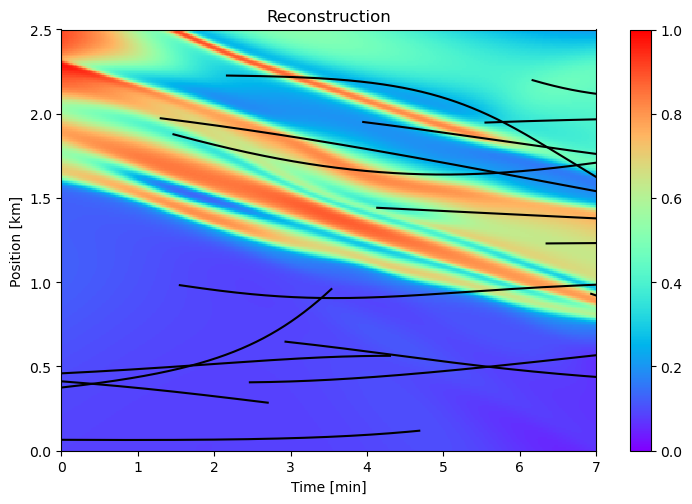
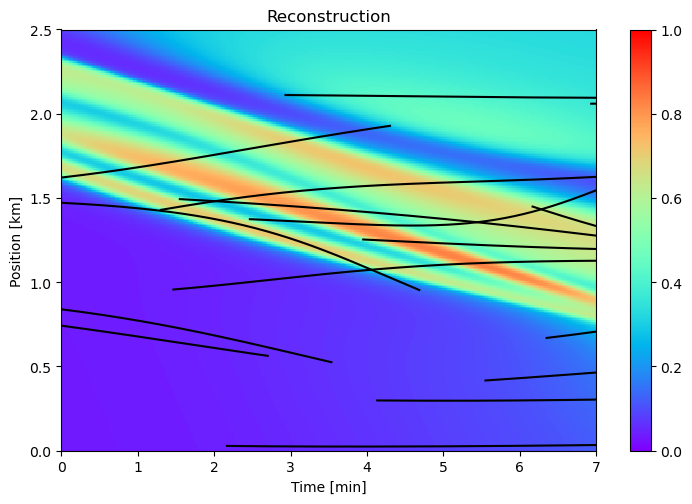
add work 6april

diff --git a/neural_network_pytorch.py b/neural_network_pytorch.py
@@ -105,19 +105,18 @@ class NeuralNetwork(nn.Module):
         self.N = len(self.x)  # Number of agents
         self.max_speed = max_speed
 
-        print_data_ranges(self.t, "t")
-        print_data_ranges(self.x, "x")
-        print_data_ranges(self.u, "u")
-        print_data_ranges(self.v, "v")
-        print_data_ranges(self.x_f, "x_f")
-        print_data_ranges(self.t_f, "t_f")
-        print_data_ranges(self.t_g, "t_g")
-        print_data_ranges(self.u_v, "u_v")
+        # print_data_ranges(self.t, "t")
+        # print_data_ranges(self.x, "x")
+        # print_data_ranges(self.u, "u")
+        # print_data_ranges(self.v, "v")
+        # print_data_ranges(self.x_f, "x_f")
+        # print_data_ranges(self.t_f, "t_f")
+        # print_data_ranges(self.t_g, "t_g")
+        # print_data_ranges(self.u_v, "u_v")
 
-
-        self.gamma_var = torch.tensor(1e-2, dtype=torch.float32, requires_grad=True) # Viscosity parameter
-        self.noise_rho_bar = [torch.tensor(torch.randn(1, 1) * 0.001, dtype=torch.float32, requires_grad=True) 
-                              for _ in range(self.N)] # Noise for the density
+        # learnable parameters
+        self.gamma_var = torch.nn.Parameter(torch.tensor(1e-2, dtype=torch.float32), requires_grad=True)  # Correct use of dtype # Viscosity parameter
+        self.noise_rho_bar = [torch.nn.Parameter(torch.randn(1, 1) * 0.001, requires_grad=True) for _ in range(self.N)] # Noise for the density
 
 
         # build density network
@@ -239,10 +238,15 @@ class NeuralNetwork(nn.Module):
         rho = np.linspace(-1, 1, 100)
         rho = torch.tensor(rho, dtype=torch.float32).unsqueeze(1)
         v_pred = self.predict_speed(rho)
+        F_pred = self.predict_F(rho)
         for (t, x, u, v) in zip(self.t, self.x, self.u, self.v):
             plt.scatter(u.detach().numpy(), v.detach().numpy(), c='blue', s=5)
         rho = np.linspace(-1,1,100)
         plt.plot(rho, v_pred, c='red')
+        plt.plot(rho, F_pred, c='green')
+        # plt.plot(rho, ((rho+1)/2)*v_pred, c='purple')
+        
+        plt.legend(['v', 'F', 'rho*v'])
 
         # density over position at different times
         plt.subplot(3, 3, 7)  # 1 row, 2 columns, subplot 1
@@ -288,7 +292,7 @@ class NeuralNetwork(nn.Module):
 
         # breakpoint()
         # Predictions
-        u_pred = [self.net_u(self.t[i], self.x[i]) - self.noise_rho_bar[i]*0 for i in range(len(self.t))] # list of tensors, since each tensor has a different shape
+        u_pred = [self.net_u(self.t[i], self.x[i]) - self.noise_rho_bar[i] for i in range(len(self.t))] # list of tensors, since each tensor has a different shape
         v_pred = [self.net_v(self.u[i]) for i in range(len(self.t))]
         # x_pred = [self.net_x_pv(t[i], i) for i in range(len(t))]  # data points or physics points?
         # x_pred0 = self.net_x_pv(t[0], 0)
@@ -325,11 +329,13 @@ class NeuralNetwork(nn.Module):
         MSEf = torch.mean(f_pred**2)  # Residual of PDE Predictions flux function
         # MSEg = torch.mean(g_pred**2)  # Residual of PDE Predictions g function
         MSEv = torch.mean(torch.relu(self.net_ddf(self.u_v))**2)  # Placeholder, adjust as needed
+        MSEgamma = self.gamma_var**2
 
         return {
             # "MSEf": MSEf,
             # "MSEg": MSEg,
-           "MSEv": MSEv
+            "MSEv": MSEv,
+            "MSEgamma": MSEgamma
         }
 
         
@@ -350,12 +356,24 @@ class NeuralNetwork(nn.Module):
 
         # losses tracking
         loss_history = {}
+        gamma_var_history = []
+        noise_rho_bar_history = []
+
+        # breakpoint()
 
         # Define the optimizer
+        # all_params = list(self.density_network.parameters()) + list(self.velocity_network.parameters())
         optimizer = optim.Adam(self.parameters(), lr=0.005)
+        optimizer = optim.Adam([
+            {'params': self.parameters()},  # Parameters of sub-modules
+            # {'params': [self.gamma_var]},  # Explicitly add gamma_var
+            {'params': self.noise_rho_bar}  # Explicitly add all tensors in noise_rho_bar
+        ], lr=0.005)
+        # optimizer = optim.Adam(list(self.parameters()) + [self.gamma_var] + [*self.noise_rho_bar], lr=0.005)
+        # optimizer = optim.LBFGS(self.parameters(), lr=0.005)
        
         # Train the model
-        self.N_epochs = 10000
+        self.N_epochs = 4000
         # self.plot_density_loss_on_trajectory()
         with tqdm(total=self.N_epochs, desc="Training Progress") as pbar:
             for epoch in range(self.N_epochs):
@@ -366,13 +384,13 @@ class NeuralNetwork(nn.Module):
                 loss = sum(losses_data.values()) + sum(losses_physics.values())
                 # loss = sum([self.sigmas[i]*losses[key] for i, key in enumerate(losses.keys())])
   
-
                 loss.backward()
                 optimizer.step()
 
+                # print(self.gamma_var, self.noise_rho_bar[0])
+
                 pbar.set_postfix({'loss': loss.item()})
                 pbar.update(1)
-
 
                 combined_losses = {**losses_data, **losses_physics}
                 for key, value in combined_losses.items():
@@ -380,15 +398,15 @@ class NeuralNetwork(nn.Module):
                         loss_history[key] = []
                     # Assuming the loss values are tensors, use .item() to get Python numbers
                     loss_history[key].append(value.item())
-
-
                 
-                if epoch % self.N_lambda == 0:
-                    pass
-                    # self.gamma_var = self.gamma_var - 0.1 * self.gamma_var.grad
-                    # self.noise_rho_bar = [self.noise_rho_bar[i] - 0.1 * self.noise_rho_bar[i].grad for i in range(self.N)]
+
+                gamma_var_history.append(self.gamma_var.item())
+                noise_rho_bar_history.append([tensor.item() for tensor in self.noise_rho_bar])
+
+               
+            # breakpoint()
             self.plot_density_loss_on_trajectory()
-            return loss_history
+            return loss_history, gamma_var_history, noise_rho_bar_history
         
      
     # build pytorch network    
@@ -432,9 +450,10 @@ class NeuralNetwork(nn.Module):
         '''
         # rho.requires_grad_(True)
         v_pred = self.net_v(rho)
-        v_pred_du = torch.autograd.grad(v_pred, rho, grad_outputs=torch.ones_like(v_pred), create_graph=True)[0]
-        # return v_pred + (rho + 1) * v_pred_du
-        return v_pred + rho * v_pred_du
+        v_pred_drho = torch.autograd.grad(v_pred, rho, grad_outputs=torch.ones_like(v_pred), create_graph=True)[0]
+        return v_pred + (rho + 1)/2 * v_pred_drho
+        # return v_pred + (rho + 1) * v_pred_drho # good?
+        return v_pred + rho * v_pred_drho
         # return -self.max_speed * rho
 
     def net_u(self, t, x):

diff --git a/main_sumo.py b/main_sumo.py
@@ -43,6 +43,28 @@ def plot_losses(loss_history):
     plt.tight_layout(rect=[0, 0.03, 1, 0.95])  # Adjust the layout to make room for the suptitle
     plt.show()
 
+
+def plot_parameters(gamma_var_history, noise_rho_bar_history):
+    fig, ax = plt.subplots(2, 1, figsize=(15, 10))
+    fig.suptitle('Parameter History')
+
+    ax[0].plot(gamma_var_history)
+    ax[0].set_title('Gamma Variance')
+    ax[0].set_xlabel('Epoch')
+    ax[0].set_ylabel('Variance')
+    ax[0].grid(True)
+
+    ax[1].plot(noise_rho_bar_history)
+    ax[1].set_title('Noise Rho Bar')
+    ax[1].set_xlabel('Epoch')
+    ax[1].set_ylabel('Value')
+    ax[1].grid(True)
+
+    plt.tight_layout(rect=[0, 0.03, 1, 0.95])  # Adjust the layout to make room for the suptitle
+    plt.show()
+
+
+
 scenario = 'highway'
 
 sumo = s.Sumo(scenario)
@@ -58,8 +80,9 @@ Vf = np.amax(v_train[14]) # find the highest speed in the training data\
 trained_neural_network = rn.ReconstructionNeuralNetwork(t_train, x_train, rho_train, v_train,
                                                     L, Tmax, N_f=500, N_g=50, opt=9, v_max=Vf)
 
-loss_history = trained_neural_network.train()
+loss_history, gamma_var_history, noise_rho_bar_history = trained_neural_network.train()
 plot_losses(loss_history)
+plot_parameters(gamma_var_history, noise_rho_bar_history)
 
 
 trained_neural_network.plot(axisPlot, rho)

diff --git a/reconstruction_neural_network_pytorch.py b/reconstruction_neural_network_pytorch.py
@@ -226,8 +226,8 @@ class ReconstructionNeuralNetwork():
         
         rho = 2*rho-1 # bring rho to [-1, 1]
         v_tanh = self.neural_network.predict_speed(rho)
-        v = (v_tanh+1)/2 * self.max_speed * (1-rho)
-        return v*(self.ub[0] - self.lb[0]) / (self.ub[1] - self.lb[1])
+        #v = (v_tanh+1)/2 * self.max_speed * (1-rho)
+        return v_tanh*(self.ub[0] - self.lb[0]) / (self.ub[1] - self.lb[1])
         # return self.neural_network.predict_speed(rho)*(self.ub[0] - self.lb[0]) / (self.ub[1] - self.lb[1])
 
     def predict_F(self, rho):
